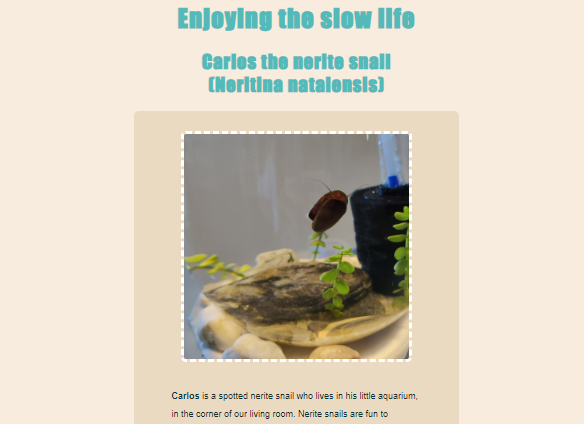
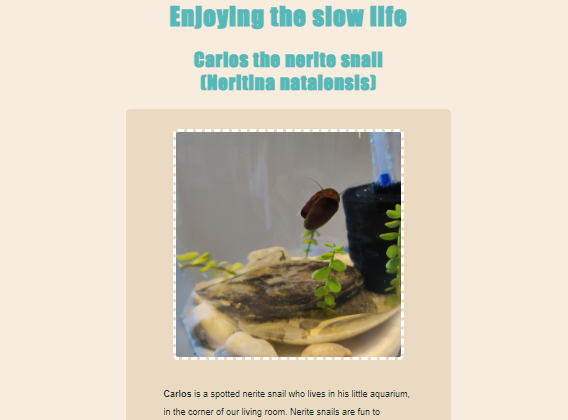
Updated work.html images, css
Updated images and css on work.html page

diff --git a/work.html b/work.html
@@ -51,13 +51,13 @@
         <div class="collapse navbar-collapse" id="navbarNav">
           <ul class="navbar-nav">
             <li class="nav-item">
-              <a class="nav-link" aria-current="page" href="/">Home</a>
+              <a class="nav-link active" aria-current="page" href="/">Home</a>
             </li>
             <li class="nav-item">
               <a class="nav-link active" href="/about.html">About me</a>
             </li>
             <li class="nav-item">
-              <a class="nav-link active" href="/work.html">My work</a>
+              <a class="nav-link" href="/work.html">My work</a>
             </li>
             <li class="nav-item">
               <a class="nav-link active">Contact me</a>
@@ -81,16 +81,16 @@
     </div>
     <div class="container text-center mt-5 mb-5">
       <div class="row">
-        <div class="col-md-6 mt-5 mb-5">
+        <div class="col-md-6 mb-5">
           <img
             src="/images/carlos.png"
             alt="Carlos landing page screenshot"
-            class="shadow rounded showcase"
+            class="shadow rounded img-fluid project-image"
           />
         </div>
         <div class="col-md-6 mb-5">
-          <h3 class="text-start">Landing page</h3>
-          <p class="mt-5 mb-5 text-start">This simple landing page (using HTML, CSS and JavaScript) was my first project ever!</p>
+          <h3>Landing page</h3>
+          <p class="mt-4 mb-5 text-start">This simple landing page (using HTML, CSS and JavaScript) was my first project ever!</p>
           <a
             href="https://www.shecodes.io/workshops/shecodes-basics-80fd6cd0-d5b6-4e93-9a4b-8831b9296e93/projects/1148362"
             target="_blank"
@@ -104,12 +104,12 @@
             <img
               src="/images/weather.png"
               alt="Weather app screenshot"
-              class="shadow rounded showcase"
+              class="shadow rounded img-fluid project-image"
             />
           </div>
           <div class="col-md-6 mb-5">
-            <h3 class="text-start">Weather app</h3>
-            <p class="mt-5 mb-5 text-start">Weather app (built using HTML, CSS, Bootstrap, JavaScript and API calls). Displays current weather conditions and a 5 day forecast for user's current location or a location that is searched.</p>
+            <h3>Weather app</h3>
+            <p class="mt-4 mb-5 text-start">Weather app (built using HTML, CSS, Bootstrap, JavaScript and API calls). Displays current weather conditions and a 5 day forecast for user's current location or a location that is searched.</p>
             <a
               href="https://cosmic-brioche-c85fbd.netlify.app"
               target="_blank"
@@ -123,12 +123,12 @@
             <img
               src="/images/intro.PNG"
               alt="Introduction page screenshot"
-              class="shadow rounded showcase"
+              class="shadow rounded img-fluid project-image"
             />
           </div>
           <div class="col-md-6 mb-5">
-            <h3 class="text-start">Introduction website</h3>
-            <p class="mt-5 mb-5 text-start">Introduction website (built using HTML, CSS and Bootstrap). The goal of this project was to practice adding responsiveness and multiple page website hosting.</p>
+            <h3>Introduction website</h3>
+            <p class="mt-4 mb-5 text-start">Introduction website (built using HTML, CSS and Bootstrap). The goal of this project was to practice adding responsiveness and multiple page website hosting.</p>
             <a
               href="https://merry-daffodil-87d919.netlify.app"
               target="_blank"

diff --git a/styles/styles.css b/styles/styles.css
@@ -65,6 +65,11 @@ h3 {
   border-radius: 5px;
   border: 1px solid var(--accent-color);
   color: var(--accent-color);
+  transition: ease-in 200ms all;
+}
+.navigation-link:hover {
+  background-color: var(--accent-color);
+  color: white;
 }
 
 .footer-link:hover,
